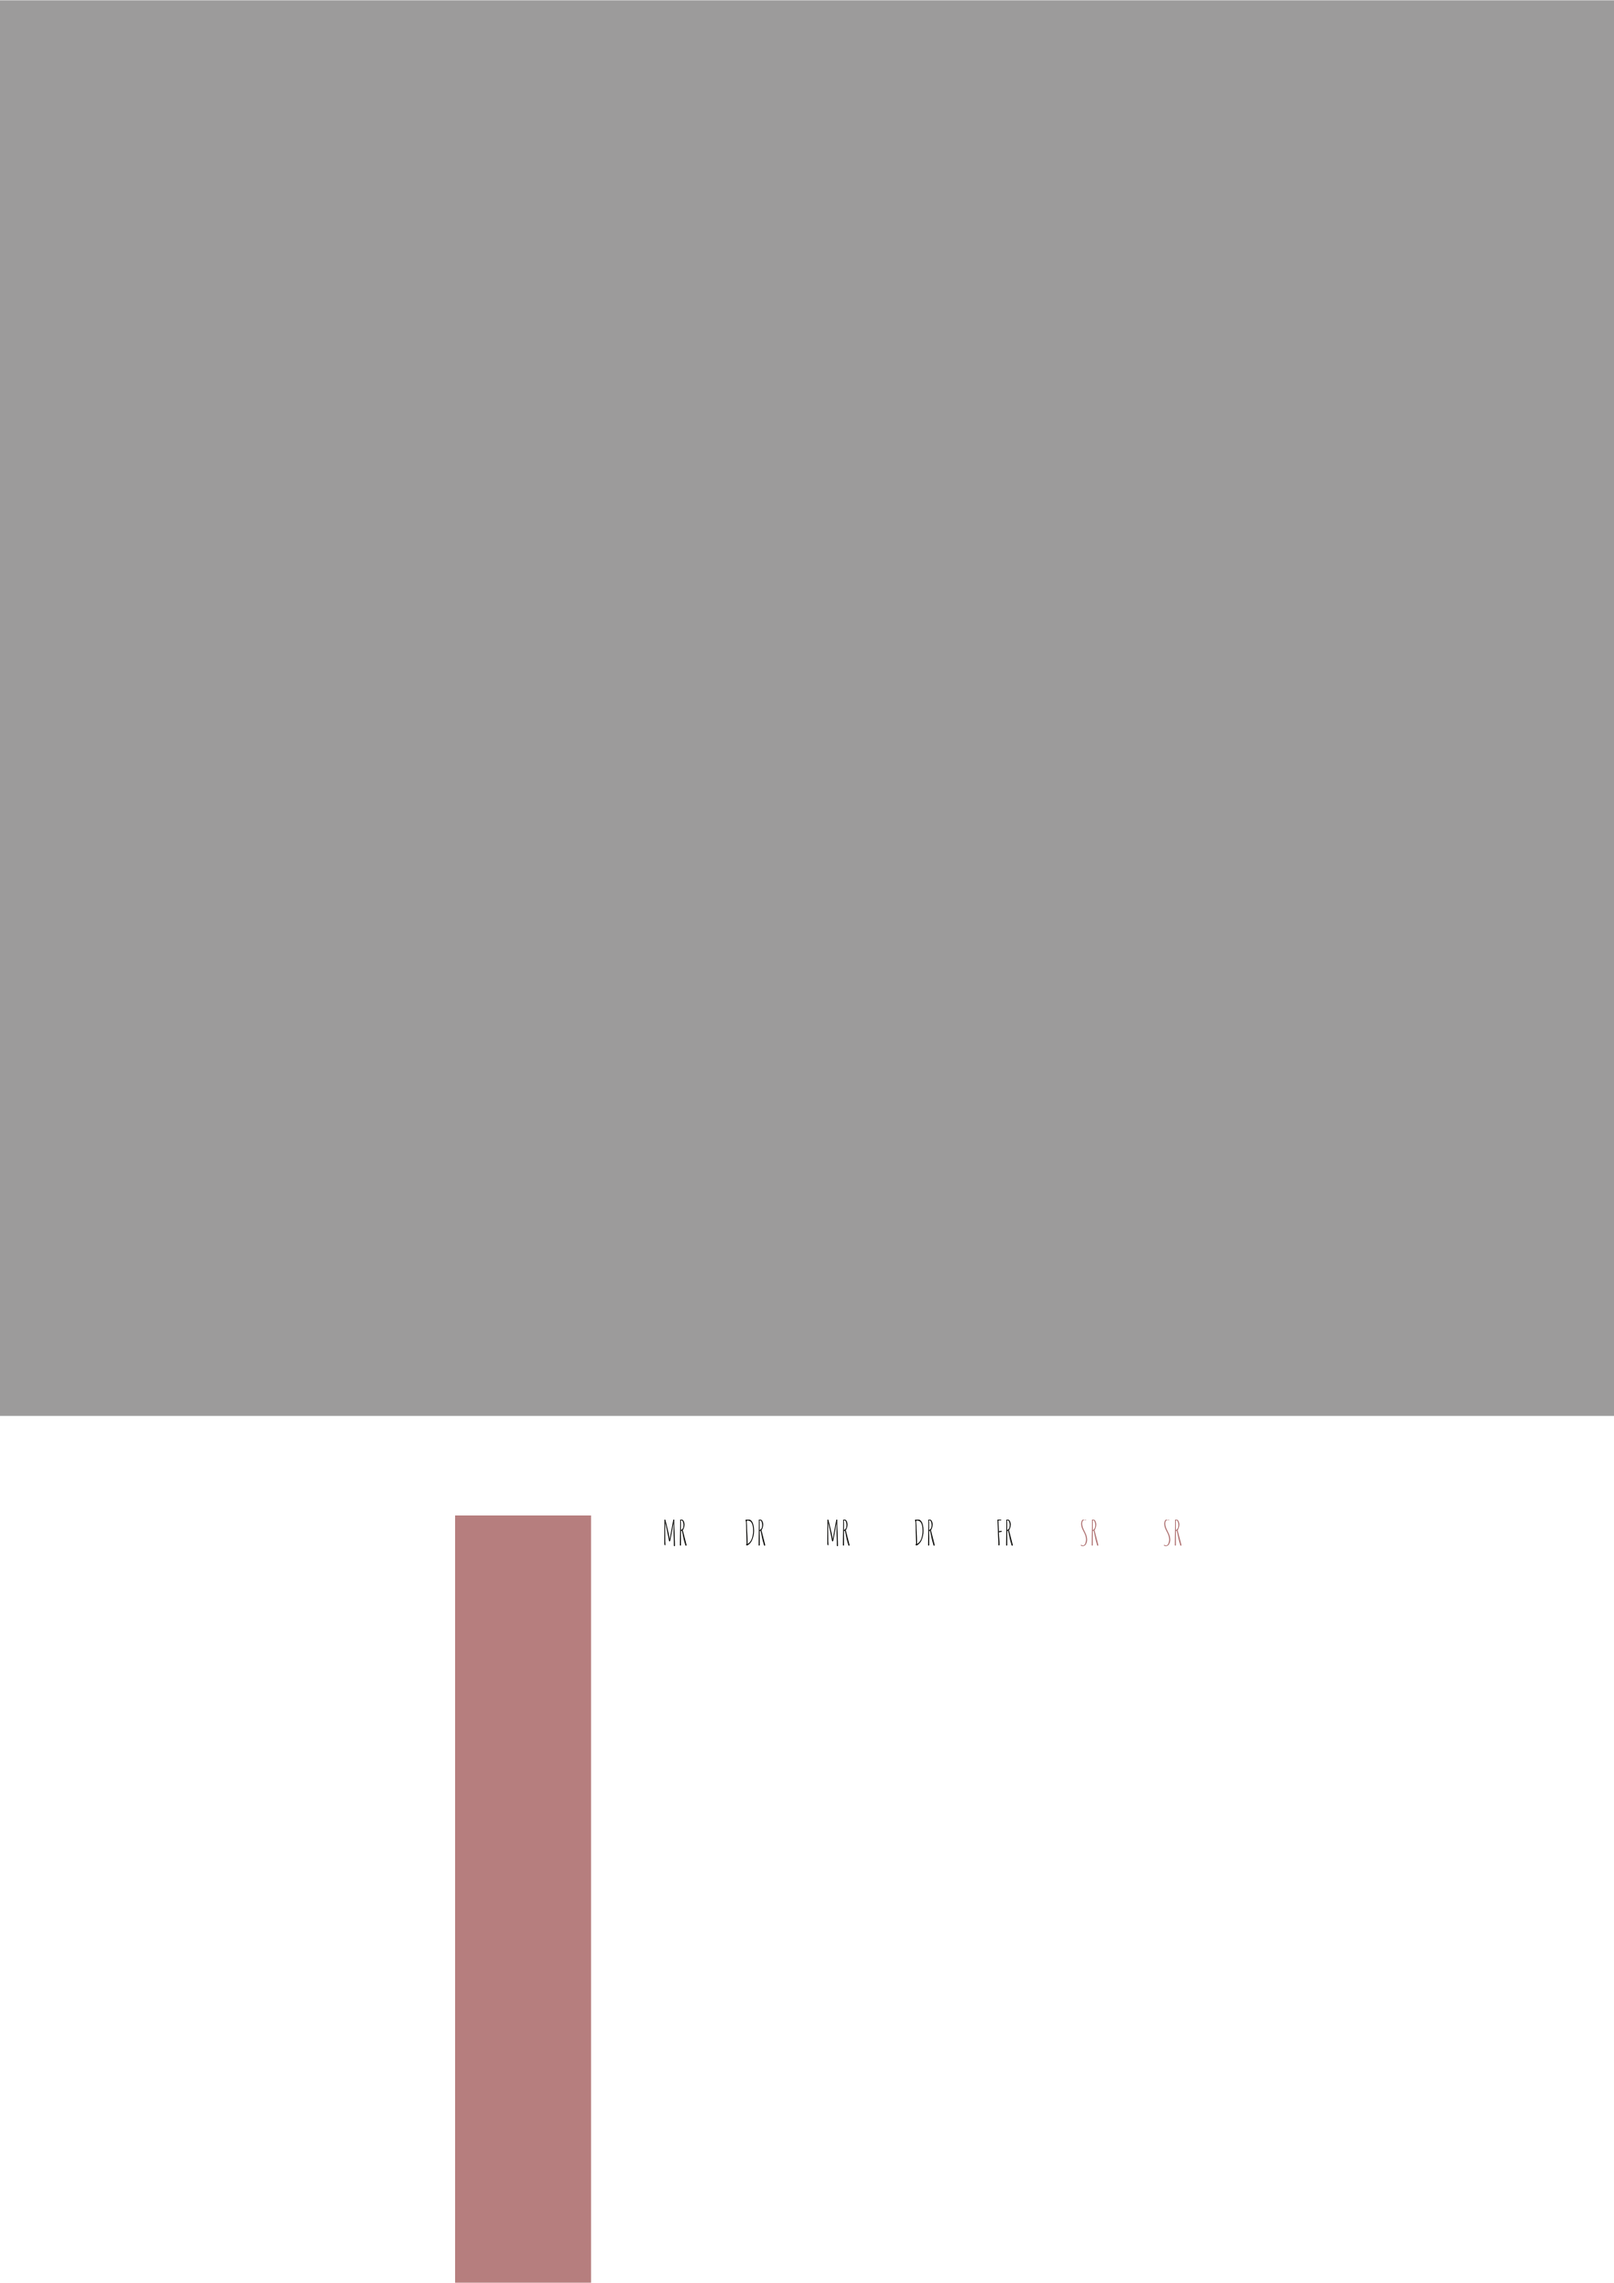
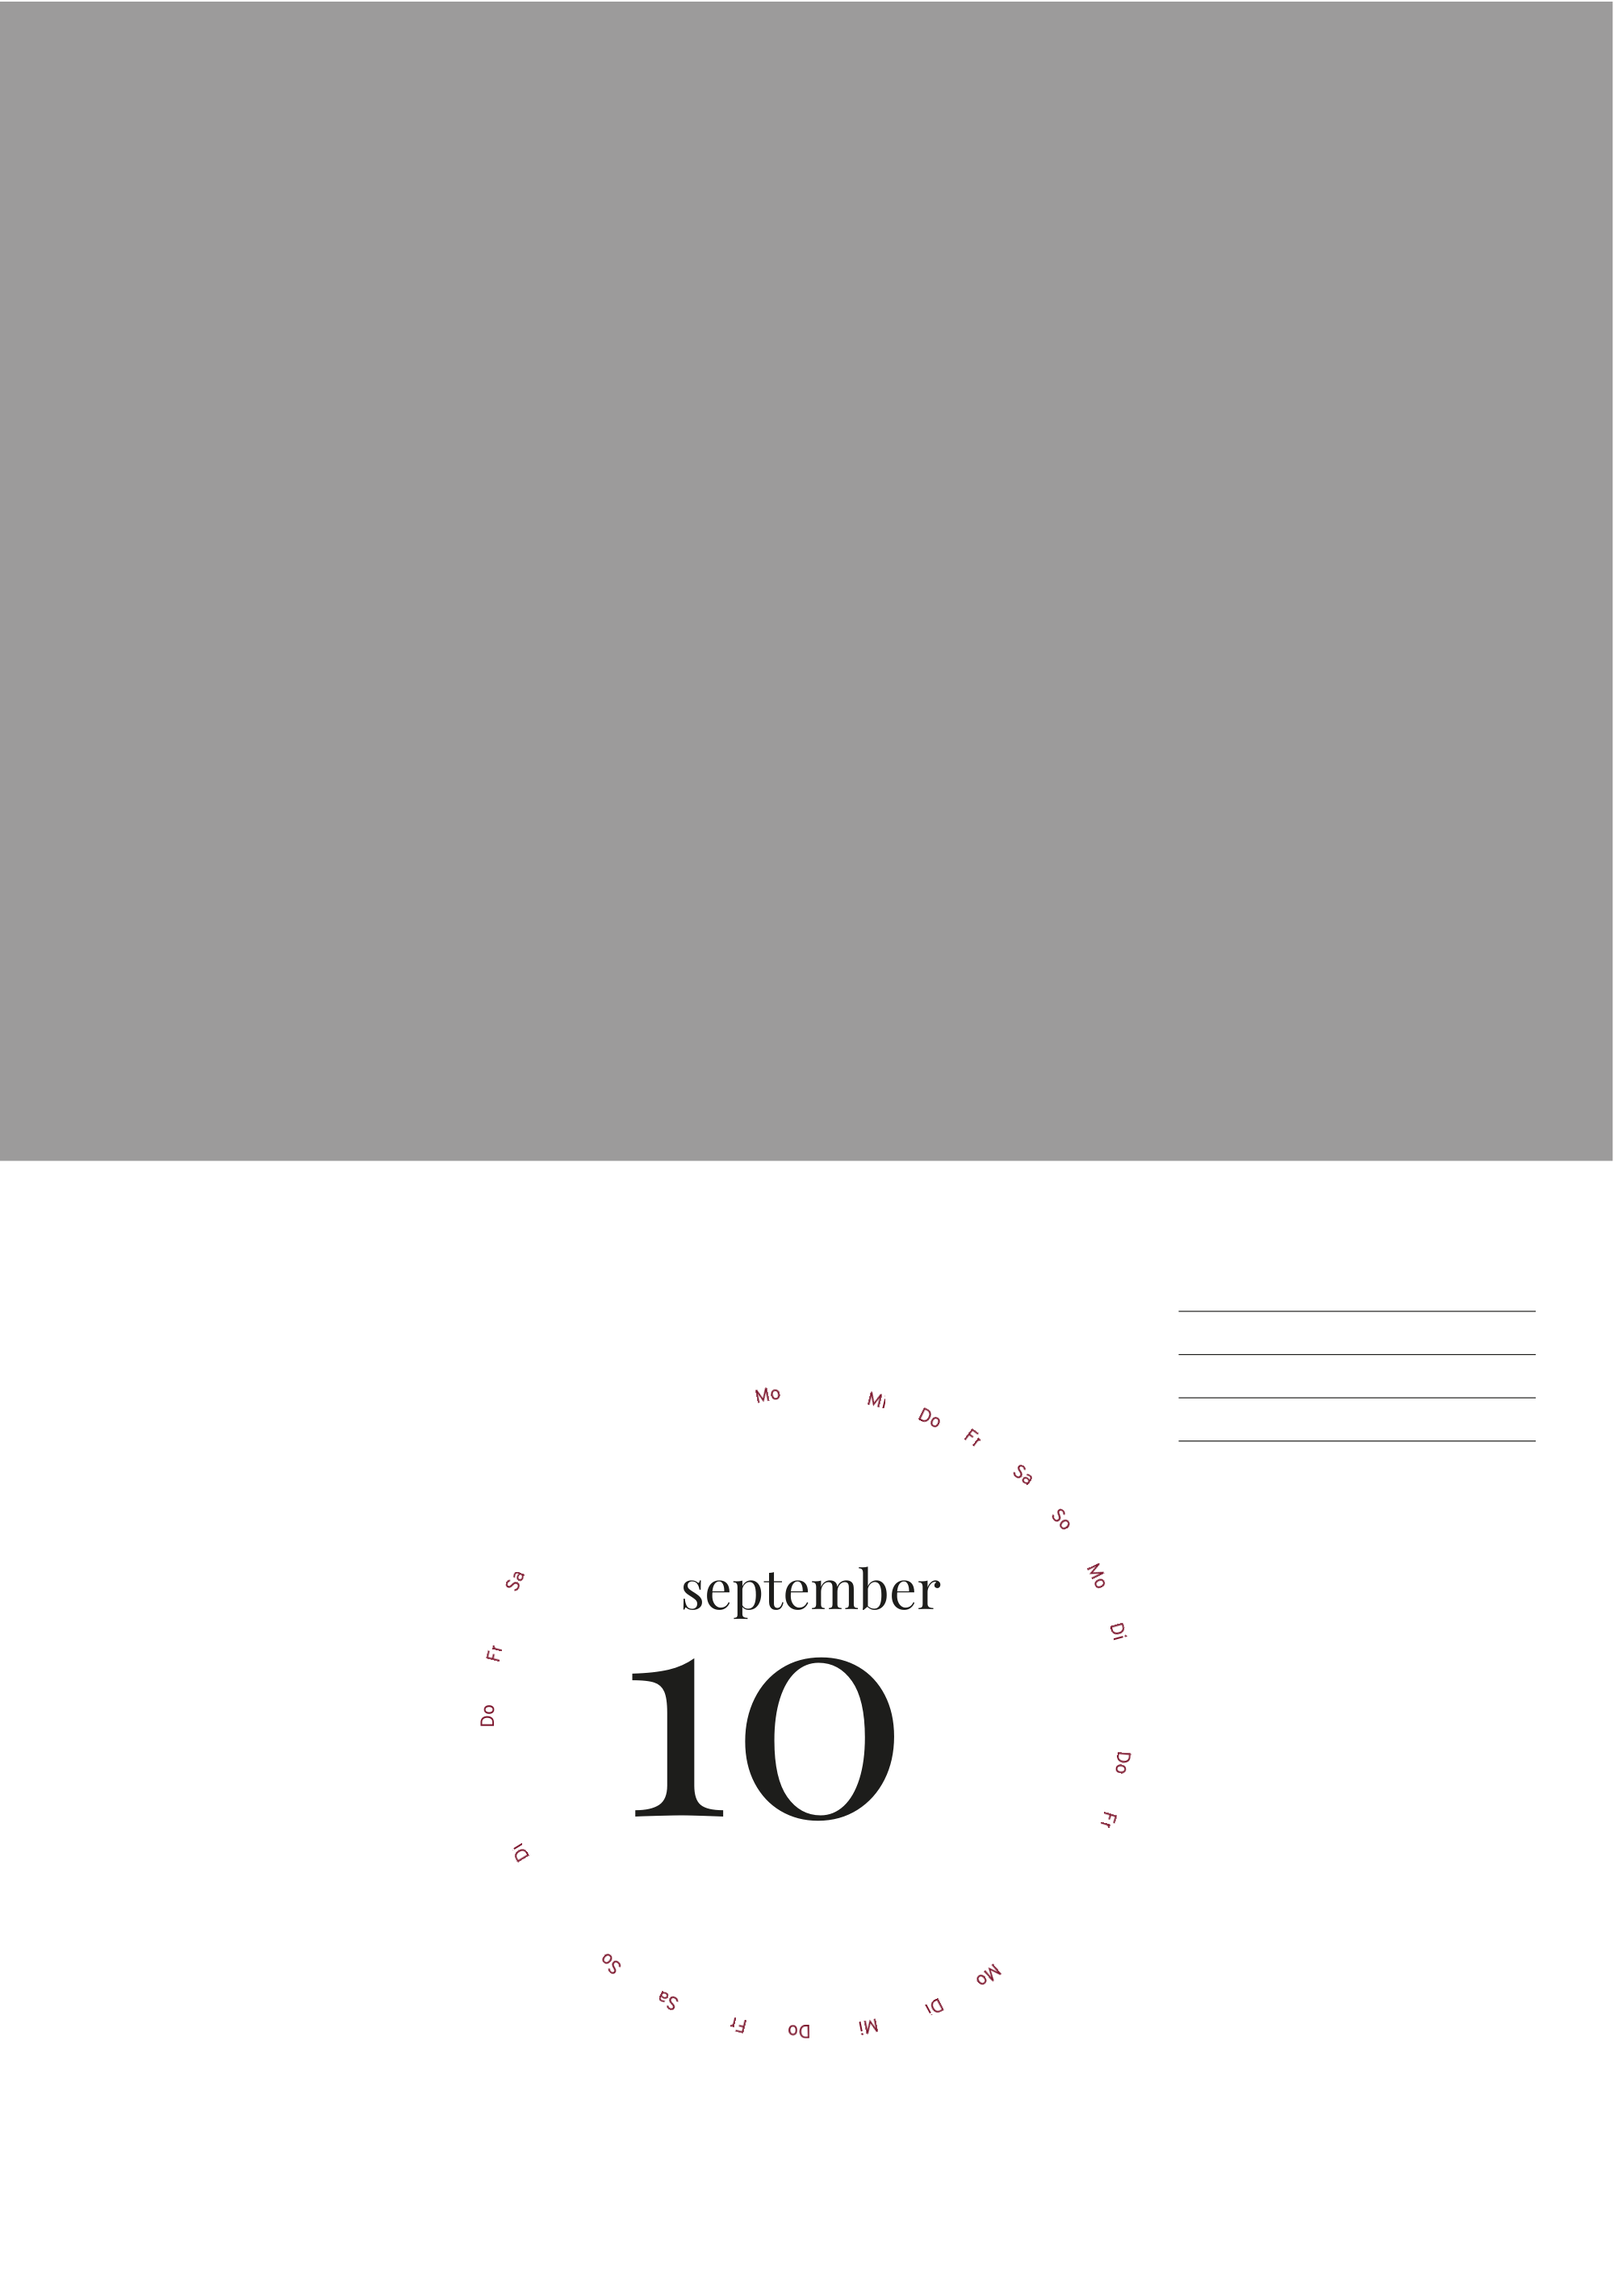
add rendering stuff

diff --git a/svg/calendar.go b/svg/calendar.go
@@ -6,18 +6,21 @@ import (
 )
 
 type Calendar struct {
-	texts                     []CalendarText
-	weekdayHeadingsTable      []CalendarText
-	weekdayHeadingsLine       []CalendarText
-	positionTableCurrentMonth []CalendarText
-	positionTableAnotherMonth []CalendarText
-	positionsLineWeekend      []CalendarText
-	positionsLineWeekday      []CalendarText
-	positionsLineDefault      []CalendarText
-	years                     []CalendarText
-	months                    []CalendarText
-	calendarWeeksTable        []CalendarText
-	calendarWeeksLine         []CalendarText
+	texts                []CalendarText
+	weekdayHeadingsTable map[int]CalendarText
+	weekdayHeadingsLine  map[int]CalendarText
+
+	positionTableCurrentMonth map[int]CalendarText
+	positionTableAnotherMonth map[int]CalendarText
+	positionsLineWeekend      map[int]CalendarText
+	positionsLineWeekday      map[int]CalendarText
+	positionsLineDefault      map[int]CalendarText
+
+	calendarWeeksTable []CalendarText
+	calendarWeeksLine  []CalendarText
+
+	years  []CalendarText
+	months []CalendarText
 
 	skipWeeks        map[int][]string
 	skipDays         map[int][]string
@@ -34,13 +37,13 @@ type Calendar struct {
 func NewCalendar() Calendar {
 	return Calendar{
 		texts:                     make([]CalendarText, 0),
-		weekdayHeadingsTable:      make([]CalendarText, 0),
-		weekdayHeadingsLine:       make([]CalendarText, 0),
-		positionTableCurrentMonth: make([]CalendarText, 0),
-		positionTableAnotherMonth: make([]CalendarText, 0),
-		positionsLineWeekend:      make([]CalendarText, 0),
-		positionsLineWeekday:      make([]CalendarText, 0),
-		positionsLineDefault:      make([]CalendarText, 0),
+		weekdayHeadingsTable:      make(map[int]CalendarText),
+		weekdayHeadingsLine:       make(map[int]CalendarText),
+		positionTableCurrentMonth: make(map[int]CalendarText),
+		positionTableAnotherMonth: make(map[int]CalendarText),
+		positionsLineWeekend:      make(map[int]CalendarText),
+		positionsLineWeekday:      make(map[int]CalendarText),
+		positionsLineDefault:      make(map[int]CalendarText),
 		years:                     make([]CalendarText, 0),
 		months:                    make([]CalendarText, 0),
 		calendarWeeksTable:        make([]CalendarText, 0),
@@ -100,24 +103,24 @@ func (c *Calendar) SaveText(x CalendarText) {
 	switch {
 	case x.WeekdayHeader > 0:
 		if x.CalendarType == "table" {
-			c.weekdayHeadingsTable = append(c.weekdayHeadingsTable, x)
+			c.weekdayHeadingsTable[x.WeekdayHeader] = x
 		} else if x.CalendarType == "line" {
-			c.weekdayHeadingsLine = append(c.weekdayHeadingsLine, x)
+			c.weekdayHeadingsLine[x.WeekdayHeader] = x
 		}
 	case x.WeekdayPosition > 0:
 		if x.CalendarType == "table" {
 			if x.IsCurrentMonth { // todo: switch these
-				c.positionTableAnotherMonth = append(c.positionTableAnotherMonth, x)
+				c.positionTableAnotherMonth[x.WeekdayPosition] = x
 			} else {
-				c.positionTableCurrentMonth = append(c.positionTableCurrentMonth, x)
+				c.positionTableCurrentMonth[x.WeekdayPosition] = x
 			}
 		} else if x.CalendarType == "line" {
 			if x.IsWeekend {
-				c.positionsLineWeekend = append(c.positionsLineWeekend, x)
+				c.positionsLineWeekend[x.WeekdayPosition] = x
 			} else if x.IsWeekday {
-				c.positionsLineWeekday = append(c.positionsLineWeekday, x)
+				c.positionsLineWeekday[x.WeekdayPosition] = x
 			} else {
-				c.positionsLineDefault = append(c.positionsLineDefault, x)
+				c.positionsLineDefault[x.WeekdayPosition] = x
 			}
 		}
 	case x.IsYear:
@@ -157,4 +160,6 @@ type CalendarText struct {
 	FormatMonth           string
 	FormatYear            string
 	HasRefinement         bool
+	CurrentMonth          int
+	CurrentYear           int
 }

diff --git a/svg/calendar_renderer.go b/svg/calendar_renderer.go
@@ -10,6 +10,7 @@ import (
 	"os/exec"
 	"strconv"
 	"sync"
+	"time"
 )
 
 var weekdays = map[int]string{
@@ -25,7 +26,6 @@ var weekdays = map[int]string{
 var (
 	ch = make(chan ImageObject)
 	wg = &sync.WaitGroup{}
-
 )
 
 func (c *Calendar) Render(year, month int, width float64) {
@@ -51,14 +51,36 @@ func (c *Calendar) drawTexts(year, month int) {
 	if len(c.positionTableCurrentMonth) == 42 {
 		c.fillTable(year, month)
 	}
+
+	if len(c.positionsLineDefault) == 31 || len(c.positionsLineWeekday) == 31 {
+		c.fillLine(year, month)
+	}
+
+	for _, text := range c.months {
+		wg.Add(1)
+		drawSingleText(&text, year, month)
+	}
+
+	for _, text := range c.years {
+		wg.Add(1)
+		drawSingleText(&text, year, month)
+	}
+
+	for _, text := range c.texts {
+		wg.Add(1)
+		drawSingleText(&text, year, month)
+	}
 	wg.Wait()
 	close(ch)
 }
 
-func drawSingleText(c *CalendarText) {
+func drawSingleText(c *CalendarText, year, month int) {
+	c.CurrentMonth = month
+	c.CurrentYear = year
 	c.Annotations.ApplyLate(c)
 	ctx := gg.NewContext(0, 0)
-	err := ctx.LoadFontFace("AmaticSC-Regular.ttf", c.FontSize)
+	fontPath, err := getFontFilePath(c.FontFamily)
+	err = ctx.LoadFontFace(fontPath, c.FontSize)
 	if err != nil {
 		panic(err)
 	}
@@ -71,7 +93,7 @@ func drawSingleText(c *CalendarText) {
 	}
 	ctx = gg.NewContext(int(r*2), int(r*2))
 	// todo fonts
-	err = ctx.LoadFontFace("AmaticSC-Regular.ttf", c.FontSize)
+	err = ctx.LoadFontFace(fontPath, c.FontSize)
 	if err != nil {
 		panic(err)
 	}
@@ -88,7 +110,6 @@ func drawSingleText(c *CalendarText) {
 	ctx.SetColor(fontColor)
 	ctx.DrawString(c.Content, r, r)
 
-	ctx.SavePNG(c.Content + ".png")
 	ch <- ImageObject{
 		ctx, image.Point{
 			X: int(c.Position.X),
@@ -119,12 +140,42 @@ func (c *Calendar) fillTable(year, month int) {
 	for _, w := range c.weekdayHeadingsTable {
 		w.Content = weekdays[w.WeekdayHeader]
 		wg.Add(1)
-		drawSingleText(&w)
+		drawSingleText(&w, year, month)
 	}
 
-	//for pos := range c.positionTableCurrentMonth {
-	//
-	//}
+	currentDate := time.Date(year, time.Month(month), 1, 12, 0, 0, 0, time.Local)
+	startWeekday := currentDate.Weekday()
+loop:
+	for i := 0; i < 7; i++ {
+		for d := int(startWeekday); d < 7; d++ {
+			if int(currentDate.Month()) == month {
+				text := c.positionTableCurrentMonth[i*7+d]
+				text.Content = strconv.Itoa(currentDate.Day())
+				wg.Add(1)
+				drawSingleText(&text, year, month)
+				currentDate = currentDate.AddDate(0, 0, 1)
+				startWeekday = 0
+			} else {
+				break loop
+			}
+		}
+	}
+}
+
+func (c *Calendar) fillLine(year, month int) {
+	first := time.Date(year, time.Month(month), 1, 12, 0, 0, 0, time.Local)
+	counter := 1
+	for int(first.Month()) == month {
+		header, ok := c.weekdayHeadingsLine[counter]
+		if !ok {
+			panic("header not set: " + strconv.Itoa(counter))
+		}
+		header.Content = weekdays[int(first.Weekday())%7+1]
+		first = first.Add(24 * time.Hour)
+		counter++
+		wg.Add(1) // todo do this in the method itself
+		drawSingleText(&header, year, month)
+	}
 }
 
 func renderSvg(svg string, width float64) *gg.Context {
@@ -137,7 +188,6 @@ func renderSvg(svg string, width float64) *gg.Context {
 	if err != nil {
 		fmt.Println(err)
 	}
-
 
 	cmd := exec.Command("/usr/local/bin/rsvg-convert", "-w", strconv.Itoa(int(width)), svgFile.Name(), "-o", pngFile.Name())
 	err = cmd.Run()

diff --git a/svg/calendar_parser.go b/svg/calendar_parser.go
@@ -58,7 +58,7 @@ func parseText(text Text, ctx Context) {
 	calendarText := CalendarText{
 		Position:   text.Position,
 		Content:    text.Content,
-		FontSize:   text.FontSize * 1.5, // todo rm
+		FontSize:   text.FontSize,
 		FontFamily: text.FontFamily,
 		FontColor:  text.Fill,
 	}
@@ -75,16 +75,11 @@ func parseText(text Text, ctx Context) {
 
 func calculateDimensions(text, fontString string, fontSize float64) (float64, float64) {
 	ctx := gg.NewContext(0, 0)
-	// todo uncomment when fonts are present
-	//fontPath, err := getFontFilePath(fontString)
-	//if err != nil {
-	//	panic(fmt.Sprintf("font-string could not be parsed: %s", fontString))
-	//}
-	err := ctx.LoadFontFace("AmaticSC-Regular.ttf", fontSize)
+	fontPath, err := getFontFilePath(fontString)
 	if err != nil {
-		fmt.Println(err)
+		panic(fmt.Sprintf("font-string could not be parsed: %s", fontString))
 	}
-	//ctx.LoadFontFace(fontPath, fontSize)
+	ctx.LoadFontFace(fontPath, fontSize)
 	return ctx.MeasureString(text)
 }
 

diff --git a/svg/fonts.go b/svg/fonts.go
@@ -8,22 +8,24 @@ import (
 
 var availableFonts []string
 
+const fontsPrefix = "resources/fonts/"
+
 func init() {
-	fileInfos, err := ioutil.ReadDir("resources/fonts/")
+	fileInfos, err := ioutil.ReadDir(fontsPrefix)
 
 	if err != nil {
 		fmt.Println("loading fonts: " + err.Error())
 	}
 
 	for _, fileInfo := range fileInfos {
-		availableFonts = append(availableFonts, fileInfo.Name())
+		availableFonts = append(availableFonts, fontsPrefix+fileInfo.Name())
 	}
 }
 
 func GetFont(family string) (string, error) {
 	for _, font := range availableFonts {
 		if strings.Contains(font, family) {
-			return "fonts/" + font, nil
+			return font, nil
 		}
 	}
 

diff --git a/svg/annotation_format_month_text.go b/svg/annotation_format_month_text.go
@@ -2,6 +2,21 @@ package svg
 
 import "regexp"
 
+var months = map[int]string{
+	1:  "Januar",
+	2:  "Februar",
+	3:  "März",
+	4:  "April",
+	5:  "Mai",
+	6:  "Juni",
+	7:  "Juli",
+	8:  "August",
+	9:  "September",
+	10: "Oktober",
+	11: "November",
+	12: "Dezember",
+}
+
 type FormatMonthText struct {
 	Attribute
 }
@@ -10,6 +25,7 @@ func (f FormatMonthText) Apply(text *CalendarText) {
 	if !text.IsMonth {
 		return
 	}
+	text.Content = months[text.CurrentMonth]
 	switch f.Attr().(string) {
 	case "1":
 		text.Content = text.Content[:1]

diff --git a/svg/annotation_format_month_number.go b/svg/annotation_format_month_number.go
@@ -2,6 +2,7 @@ package svg
 
 import (
 	"regexp"
+	"strconv"
 )
 
 type FormatMonthNumber struct {
@@ -13,10 +14,9 @@ func (f FormatMonthNumber) Apply(text *CalendarText) {
 		return
 	}
 
-	// todo
-	switch f.Attr().(string) {
-	case "02":
-	case "2":
+	text.Content = strconv.Itoa(text.CurrentMonth)
+	if f.Attr().(string) == "02" && len(text.Content) == 1 {
+		text.Content = "0" + text.Content
 	}
 }
 
@@ -38,4 +38,3 @@ func (f FormatMonthNumber) Id() string {
 func (f FormatMonthNumber) Priority() int {
 	return 20
 }
-

diff --git a/main.go b/main.go
@@ -12,7 +12,7 @@ import (
 
 func main() {
 	var foo svg.Svg
-	data, err := ioutil.ReadFile("wandkalender_a4-hoch_month.svg")
+	data, err := ioutil.ReadFile("wandkalender_a4-hoch_month-foo.svg")
 	if err != nil {
 		fmt.Errorf("shit happened: %s", err)
 	}
@@ -28,7 +28,7 @@ func main() {
 	scalingRatio := size / widthViewbox
 	c.Parse(foo, string(data), scalingRatio)
 	year, month, _ := time.Now().Date()
-	c.Render(year, int(month), size)
+	c.Render(year, int(month)+1, size)
 
 	return
 }
